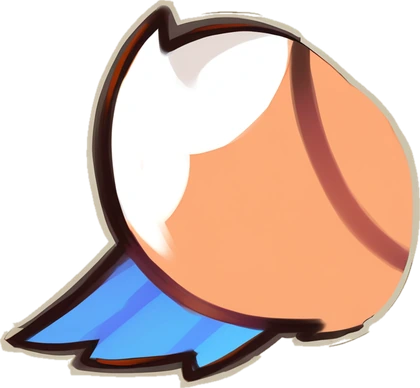
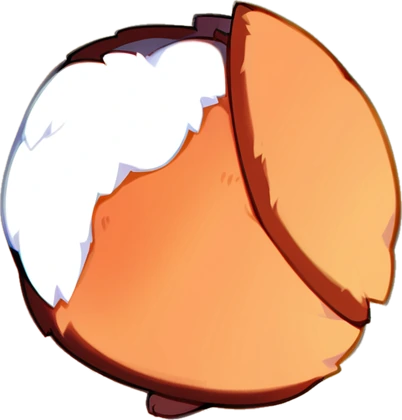
Marionnettes : queue du renard au mug orange et blanche (sans le bleu de l'écharpe) ; moteur réparé sans ?fond

diff --git a/marionnettes.html b/marionnettes.html
@@ -40,6 +40,7 @@ const DECOR = { fond: "cartes/fond-vallee.webp", buisson: "img/v3/decor-buisson.
 
 // ── le décor ──────────────────────────────────────────────────────────────────────────────────────────────
 function pose(im, x, y, l) { if (im) cx.drawImage(im, x, y - l * im.height / im.width, l, l * im.height / im.width); }
+let FOND_DONNE = null;
 function decor() {
   // ?fond=<image> : un fond donné (Greenlight nuit…) remplace le décor de la Vallée, posé plein cadre
   if (FOND_DONNE) { cx.drawImage(FOND_DONNE, 0, 0, W, H); return; }
